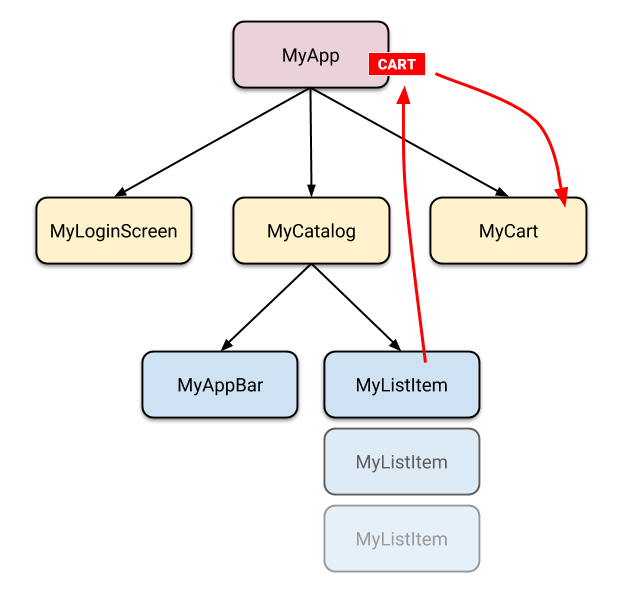
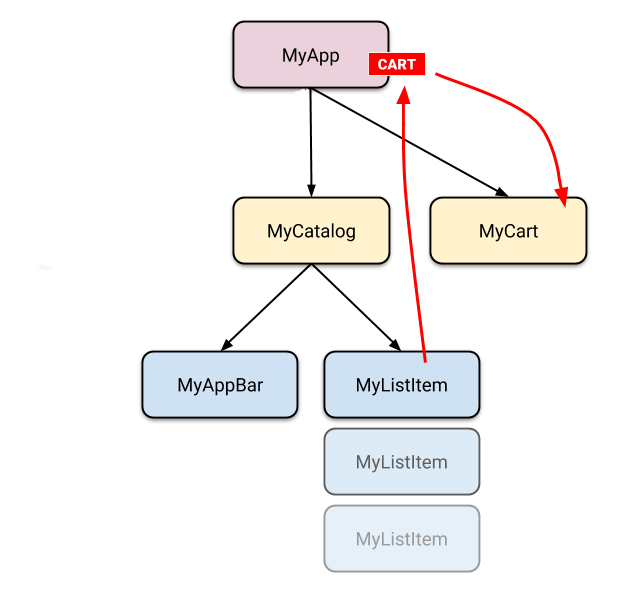
Simple State Mgt Example Repair (#3225)
* Simple State Mgt Example Repair

* Modified Images

diff --git a/src/docs/development/data-and-backend/state-mgmt/simple.md b/src/docs/development/data-and-backend/state-mgmt/simple.md
@@ -29,8 +29,8 @@ reactive frameworks, you will find packages and tutorials listed on the
 
 For illustration, consider the following simple app.
 
-The app has three separate screens: a login prompt, a catalog,
-and a cart (represented by the `MyLoginScreen`, `MyCatalog`,
+The app has two separate screens: a catalog,
+and a cart (represented by the `MyCatalog`,
 and `MyCart` widgets, respectively). It could be a shopping app,
 but you can imagine the same structure in a simple social networking
 app (replace catalog for "wall" and cart for "favorites").
@@ -40,7 +40,7 @@ and a scrolling view of many list items (`MyListItems`).
 
 Here's the app visualized as a widget tree.
 
-{% asset development/data-and-backend/state-mgmt/simple-widget-tree alt="A widget tree with MyApp at the top, and MyLoginScreen, MyCatalog and MyCart below it. MyLoginScreen and MyCart area leaf nodes, but MyCatalog have two children: MyAppBar and a list of MyListItems." %}
+{% asset development/data-and-backend/state-mgmt/simple-widget-tree alt="A widget tree with MyApp at the top, and  MyCatalog and MyCart below it. MyCart area leaf nodes, but MyCatalog have two children: MyAppBar and a list of MyListItems." %}
 
 {% comment %}
   Source drawing for the png above: https://docs.google.com/drawings/d/1KXxAl_Ctxc-avhR4uE58BXBM6Tyhy0pQMCsSMFHVL_0/edit?zx=y4m1lzbhsrvx
